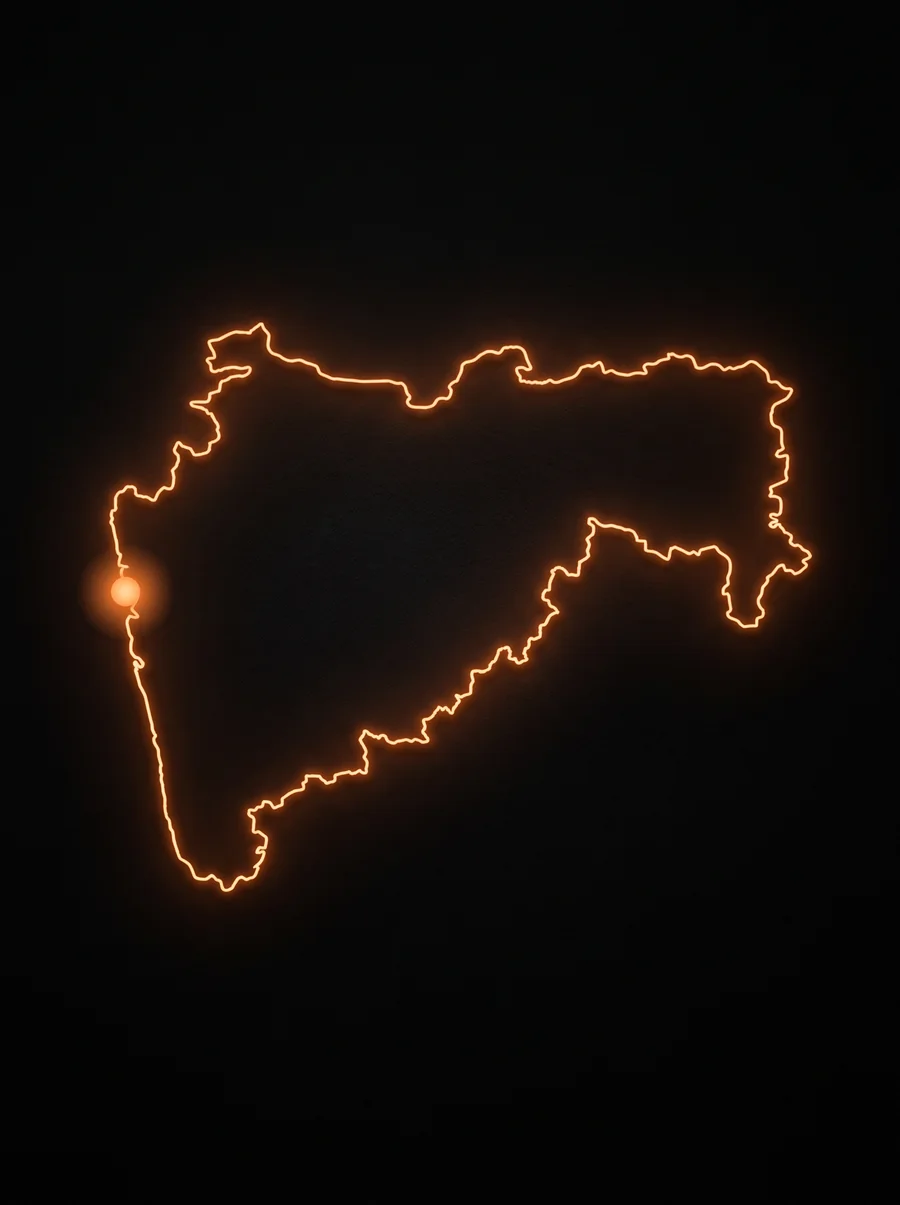
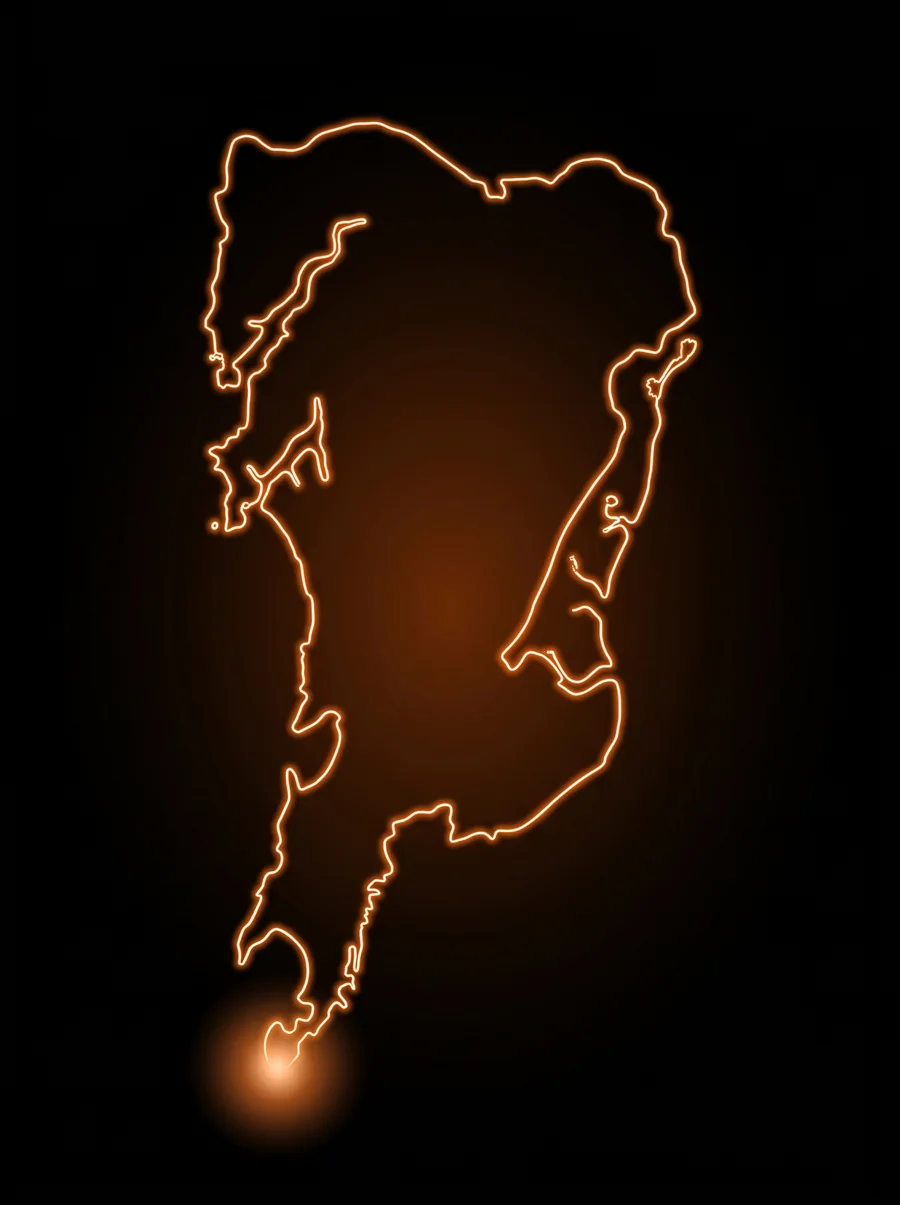
Ref feedback round: coral lens, header fix, trimmed video, ref-accurate how-it-works, Mumbai map, new footer
- Bouncing hero lens recolored to orange-pink coral (#FF6F57).
- Header: no more Services/Enquire overlap (tighter gaps, shrink guards,
  Services dropdown moves to lg+); removed the +11 badge on the About image.
- Removed the blue divider line above Our Services.
- Carousel video cut to first 3s + last 4s (7s total), re-interpolated to 60fps.
- How PROOFIT Works card rebuilt to match the reference: stacked outlines
  peeking above, inset rounded image, uppercase step title, cream pill list.
- Serving Mumbai now uses an actual Mumbai city outline map; testimonial
  gets a middle-aged Indian project-director portrait.
- Footer rebuilt per reference: grey Services label with six bold service
  links in two columns, Links column (About/Career/Contact Us/FAQs/
  Methodology), brand + contact block, social row.

Changed region(s): [[0.0622, 0.0921, 0.9333, 0.9519]]

diff --git a/components/Footer.tsx b/components/Footer.tsx
@@ -3,39 +3,58 @@ import Link from "next/link";
 import { site } from "@/lib/site";
 
 const serviceLinks = [
-  { href: "/services/water-inspection", label: "Water Inspection" },
-  { href: "/services/home-inspection", label: "Home Inspection" },
-  { href: "/services/proofit-care-plus", label: "Proofit Care+" },
+  { href: "/services/home-inspection", label: "New Flat Possession Inspection" },
+  { href: "/services/home-inspection", label: "Resale Property Inspection" },
+  { href: "/services/home-inspection", label: "Rental Move-In / Out Inspection" },
+  { href: "/services/water-inspection", label: "Thermal Inspection" },
+  { href: "/services/home-inspection", label: "Pre/Post Renovation Inspection" },
+  { href: "/services/home-inspection", label: "Builder Quality Audit" },
 ];
 
 const quickLinks = [
-  { href: "/about", label: "About Us" },
-  { href: "/process", label: "Our Process" },
-  { href: "/case-studies", label: "Case Studies" },
-  { href: "/blog", label: "Blog" },
-  { href: "/faqs", label: "FAQs" },
-  { href: "/careers", label: "Careers" },
+  { href: "/about", label: "About" },
+  { href: "/careers", label: "Career" },
   { href: "/contact", label: "Contact Us" },
+  { href: "/faqs", label: "FAQs" },
+  { href: "/process", label: "Methodology" },
+];
+
+const socials = [
+  { label: "Instagram", d: "M8 0C5.8 0 5.6 0 4.7.1 3.9.1 3.3.3 2.8.5c-.6.2-1 .5-1.5 1S.7 2.3.5 2.8C.3 3.3.1 3.9.1 4.7 0 5.6 0 5.8 0 8s0 2.4.1 3.3c0 .8.2 1.4.4 1.9.2.5.5 1 1 1.5s.9.7 1.4 1c.5.2 1 .3 1.9.4.9 0 1.1.1 3.3.1s2.4 0 3.3-.1c.8 0 1.4-.2 1.9-.4a4 4 0 0 0 2.4-2.4c.2-.5.3-1 .4-1.9V8c0-2.2 0-2.4-.1-3.3 0-.8-.2-1.4-.4-1.9a4 4 0 0 0-2.4-2.4C12.7.3 12.1.1 11.3.1 10.4 0 10.2 0 8 0zm0 1.4c2.1 0 2.4 0 3.2.1.8 0 1.2.2 1.5.3.4.1.7.3.9.6.3.3.5.6.6 1 .1.2.3.6.3 1.4.1.8.1 1.1.1 3.2s0 2.4-.1 3.2c0 .8-.2 1.2-.3 1.5-.1.4-.3.7-.6.9-.3.3-.6.5-.9.6-.3.1-.7.3-1.5.3-.8.1-1.1.1-3.2.1s-2.4 0-3.2-.1c-.8 0-1.2-.2-1.5-.3a2.6 2.6 0 0 1-1-.6 2.6 2.6 0 0 1-.5-.9c-.1-.3-.3-.7-.3-1.5C1.4 10.4 1.4 10.1 1.4 8s0-2.4.1-3.2c0-.8.2-1.2.3-1.5.1-.4.3-.7.6-.9.3-.3.5-.5.9-.6.3-.1.7-.3 1.5-.3.8-.1 1.1-.1 3.2-.1zM8 3.9a4.1 4.1 0 1 0 0 8.2 4.1 4.1 0 0 0 0-8.2zm0 6.8a2.7 2.7 0 1 1 0-5.4 2.7 2.7 0 0 1 0 5.4zm5.2-7a1 1 0 1 1-1.9 0 1 1 0 0 1 1.9 0z" },
+  { label: "LinkedIn", d: "M0 1.1C0 .5.5 0 1.2 0h13.6c.7 0 1.2.5 1.2 1.1v13.8c0 .6-.5 1.1-1.2 1.1H1.2C.5 16 0 15.5 0 14.9V1.1zm4.9 12.3V6.2H2.5v7.2h2.4zM3.7 5.2c.9 0 1.4-.5 1.4-1.2 0-.7-.5-1.2-1.3-1.2-.9 0-1.4.5-1.4 1.2 0 .7.5 1.2 1.3 1.2zm5 8.2V9.4c0-.2 0-.4.1-.6.2-.4.5-.9 1.2-.9.9 0 1.2.6 1.2 1.6v3.9h2.4V9.2c0-2.2-1.2-3.2-2.7-3.2-1.3 0-1.8.7-2.1 1.2v-1H6.3v7.2h2.4z" },
+  { label: "Facebook", d: "M16 8a8 8 0 1 0-9.2 7.9v-5.6h-2V8h2V6.3c0-2 1.2-3.1 3-3.1.9 0 1.8.1 1.8.1v2h-1c-1 0-1.3.6-1.3 1.2V8h2.2l-.4 2.3H9.2v5.6A8 8 0 0 0 16 8z" },
+  { label: "YouTube", d: "M15.7 4.2a2 2 0 0 0-1.4-1.4C13 2.4 8 2.4 8 2.4s-5 0-6.3.3A2 2 0 0 0 .3 4.2C0 5.4 0 8 0 8s0 2.6.3 3.8a2 2 0 0 0 1.4 1.4c1.2.4 6.3.4 6.3.4s5 0 6.3-.3a2 2 0 0 0 1.4-1.4C16 10.6 16 8 16 8s0-2.6-.3-3.8zM6.4 10.4V5.6L10.6 8l-4.2 2.4z" },
+  { label: "X", d: "M9.5 6.8 15.3 0h-1.4L8.9 5.9 4.9 0H.3l6.1 8.9L.3 16h1.4l5.3-6.2 4.3 6.2h4.6L9.5 6.8zm-1.9 2.2-.6-.9L2.2 1h2.1l4 5.7.6.9 5.1 7.4h-2.1L7.6 9z" },
 ];
 
 export default function Footer() {
   return (
-    <footer className="bg-ink text-white">
-      <div className="mx-auto grid max-w-7xl gap-10 px-4 py-14 sm:px-6 md:grid-cols-2 lg:grid-cols-4 lg:px-8">
+    <footer className="bg-[#121212] text-white">
+      <div className="mx-auto grid max-w-7xl gap-x-10 gap-y-12 px-4 py-14 sm:px-6 lg:grid-cols-[minmax(220px,300px)_1fr_minmax(220px,300px)] lg:px-8">
+        {/* Brand */}
         <div>
-          <Image src="/images/logo.svg" alt="Proofit" width={160} height={54} className="mb-4 rounded bg-white px-3 py-2" />
-          <p className="text-sm leading-relaxed text-white/70">
+          <Image src="/images/logo.svg" alt="Proofit" width={150} height={50} className="mb-4 rounded-md bg-white px-3 py-2" />
+          <p className="text-sm leading-relaxed text-white/60">
             Independent, evidence-backed home inspections in {site.serviceArea}. International standards, thermal
             imaging, and reports that settle arguments.
           </p>
+          <ul className="mt-5 space-y-1.5 text-sm text-white/70">
+            <li>
+              <a href={site.phoneHref} className="transition-colors hover:text-brand">{site.phone}</a>
+            </li>
+            <li>
+              <a href={`mailto:${site.email}`} className="transition-colors hover:text-brand">{site.email}</a>
+            </li>
+          </ul>
         </div>
 
+        {/* Services */}
         <div>
-          <h3 className="mb-4 font-display text-sm font-bold uppercase tracking-wider text-brand">Services</h3>
-          <ul className="space-y-2.5 text-sm">
+          <h3 className="mb-6 text-sm font-medium text-white/45">Services</h3>
+          <ul className="grid gap-x-10 gap-y-5 sm:grid-cols-2">
             {serviceLinks.map((l) => (
-              <li key={l.href}>
-                <Link href={l.href} className="text-white/80 transition-colors hover:text-brand">
+              <li key={l.label}>
+                <Link href={l.href} className="font-display font-semibold transition-colors hover:text-brand">
                   {l.label}
                 </Link>
               </li>
@@ -43,53 +62,26 @@ export default function Footer() {
           </ul>
         </div>
 
+        {/* Links */}
         <div>
-          <h3 className="mb-4 font-display text-sm font-bold uppercase tracking-wider text-brand">Company</h3>
-          <ul className="space-y-2.5 text-sm">
+          <h3 className="mb-6 text-sm font-medium text-white/45">Links</h3>
+          <ul className="grid grid-cols-2 gap-x-10 gap-y-5">
             {quickLinks.map((l) => (
-              <li key={l.href}>
-                <Link href={l.href} className="text-white/80 transition-colors hover:text-brand">
+              <li key={l.label}>
+                <Link href={l.href} className="font-display font-semibold transition-colors hover:text-brand">
                   {l.label}
                 </Link>
               </li>
             ))}
-          </ul>
-        </div>
-
-        <div>
-          <h3 className="mb-4 font-display text-sm font-bold uppercase tracking-wider text-brand">Reach Us</h3>
-          <ul className="space-y-3 text-sm text-white/80">
-            <li>
-              <a href={site.phoneHref} className="transition-colors hover:text-brand">
-                {site.phone}
-              </a>
-            </li>
-            <li>
-              <a href={`mailto:${site.email}`} className="transition-colors hover:text-brand">
-                {site.email}
-              </a>
-            </li>
-            <li>
-              <a href={site.whatsapp} target="_blank" rel="noopener" className="transition-colors hover:text-brand">
-                WhatsApp us
-              </a>
-            </li>
-            <li className="pt-1 text-white/60">{site.serviceArea}</li>
           </ul>
         </div>
       </div>
 
       <div className="border-t border-white/10">
-        <div className="mx-auto flex max-w-7xl flex-col items-center justify-between gap-4 px-4 py-5 text-xs text-white/50 sm:px-6 md:flex-row lg:px-8">
+        <div className="mx-auto flex max-w-7xl flex-col items-center justify-between gap-4 px-4 py-5 text-xs text-white/45 sm:px-6 md:flex-row lg:px-8">
           <p>© {new Date().getFullYear()} {site.legalName}. All rights reserved.</p>
           <div className="flex gap-2.5">
-            {[
-              { label: "Instagram", d: "M8 0C5.8 0 5.6 0 4.7.1 3.9.1 3.3.3 2.8.5c-.6.2-1 .5-1.5 1S.7 2.3.5 2.8C.3 3.3.1 3.9.1 4.7 0 5.6 0 5.8 0 8s0 2.4.1 3.3c0 .8.2 1.4.4 1.9.2.5.5 1 1 1.5s.9.7 1.4 1c.5.2 1 .3 1.9.4.9 0 1.1.1 3.3.1s2.4 0 3.3-.1c.8 0 1.4-.2 1.9-.4a4 4 0 0 0 2.4-2.4c.2-.5.3-1 .4-1.9V8c0-2.2 0-2.4-.1-3.3 0-.8-.2-1.4-.4-1.9a4 4 0 0 0-2.4-2.4C12.7.3 12.1.1 11.3.1 10.4 0 10.2 0 8 0zm0 1.4c2.1 0 2.4 0 3.2.1.8 0 1.2.2 1.5.3.4.1.7.3.9.6.3.3.5.6.6 1 .1.2.3.6.3 1.4.1.8.1 1.1.1 3.2s0 2.4-.1 3.2c0 .8-.2 1.2-.3 1.5-.1.4-.3.7-.6.9-.3.3-.6.5-.9.6-.3.1-.7.3-1.5.3-.8.1-1.1.1-3.2.1s-2.4 0-3.2-.1c-.8 0-1.2-.2-1.5-.3a2.6 2.6 0 0 1-1-.6 2.6 2.6 0 0 1-.5-.9c-.1-.3-.3-.7-.3-1.5C1.4 10.4 1.4 10.1 1.4 8s0-2.4.1-3.2c0-.8.2-1.2.3-1.5.1-.4.3-.7.6-.9.3-.3.5-.5.9-.6.3-.1.7-.3 1.5-.3.8-.1 1.1-.1 3.2-.1zM8 3.9a4.1 4.1 0 1 0 0 8.2 4.1 4.1 0 0 0 0-8.2zm0 6.8a2.7 2.7 0 1 1 0-5.4 2.7 2.7 0 0 1 0 5.4zm5.2-7a1 1 0 1 1-1.9 0 1 1 0 0 1 1.9 0z" },
-              { label: "LinkedIn", d: "M0 1.1C0 .5.5 0 1.2 0h13.6c.7 0 1.2.5 1.2 1.1v13.8c0 .6-.5 1.1-1.2 1.1H1.2C.5 16 0 15.5 0 14.9V1.1zm4.9 12.3V6.2H2.5v7.2h2.4zM3.7 5.2c.9 0 1.4-.5 1.4-1.2 0-.7-.5-1.2-1.3-1.2-.9 0-1.4.5-1.4 1.2 0 .7.5 1.2 1.3 1.2zm5 8.2V9.4c0-.2 0-.4.1-.6.2-.4.5-.9 1.2-.9.9 0 1.2.6 1.2 1.6v3.9h2.4V9.2c0-2.2-1.2-3.2-2.7-3.2-1.3 0-1.8.7-2.1 1.2v-1H6.3v7.2h2.4z" },
-              { label: "Facebook", d: "M16 8a8 8 0 1 0-9.2 7.9v-5.6h-2V8h2V6.3c0-2 1.2-3.1 3-3.1.9 0 1.8.1 1.8.1v2h-1c-1 0-1.3.6-1.3 1.2V8h2.2l-.4 2.3H9.2v5.6A8 8 0 0 0 16 8z" },
-              { label: "YouTube", d: "M15.7 4.2a2 2 0 0 0-1.4-1.4C13 2.4 8 2.4 8 2.4s-5 0-6.3.3A2 2 0 0 0 .3 4.2C0 5.4 0 8 0 8s0 2.6.3 3.8a2 2 0 0 0 1.4 1.4c1.2.4 6.3.4 6.3.4s5 0 6.3-.3a2 2 0 0 0 1.4-1.4C16 10.6 16 8 16 8s0-2.6-.3-3.8zM6.4 10.4V5.6L10.6 8l-4.2 2.4z" },
-              { label: "X", d: "M9.5 6.8 15.3 0h-1.4L8.9 5.9 4.9 0H.3l6.1 8.9L.3 16h1.4l5.3-6.2 4.3 6.2h4.6L9.5 6.8zm-1.9 2.2-.6-.9L2.2 1h2.1l4 5.7.6.9 5.1 7.4h-2.1L7.6 9z" },
-            ].map((s) => (
+            {socials.map((s) => (
               <a
                 key={s.label}
                 href="#"

diff --git a/components/HowItWorks.tsx b/components/HowItWorks.tsx
@@ -16,32 +16,36 @@ export default function HowItWorks({ steps }: { steps: Step[] }) {
 
   return (
     <div>
-      {/* stacked card look */}
-      <div className="relative">
-        <div className="absolute inset-x-3 -top-2 h-full rounded-2xl border border-brand/35 bg-white" aria-hidden />
-        <div className="absolute inset-x-6 -top-4 h-full rounded-2xl border border-brand/20 bg-white" aria-hidden />
-        <div className="relative grid overflow-hidden rounded-2xl border border-brand/60 bg-white md:grid-cols-[minmax(260px,380px)_1fr]">
-          <div className="relative aspect-[4/3] md:aspect-auto md:min-h-[360px]">
-            <Image
-              key={step.image}
-              src={step.image}
-              alt={step.title}
-              fill
-              sizes="(min-width: 768px) 380px, 100vw"
-              className="object-cover"
-            />
-          </div>
-          <div className="p-7 md:p-10">
-            <p className="font-display text-sm font-medium text-ink-soft/70">Step {String(index + 1).padStart(2, "0")}</p>
-            <h3 className="mt-1 font-display text-2xl font-semibold uppercase tracking-wide md:text-3xl">{step.title}</h3>
-            {step.intro && <p className="mt-2 text-ink-soft/75">{step.intro}</p>}
-            <ul className="mt-5 space-y-3">
-              {step.points.map((p) => (
-                <li key={p} className="rounded-xl bg-cream px-5 py-3.5 text-sm font-medium text-ink">
-                  {p}
-                </li>
-              ))}
-            </ul>
+      {/* stacked card deck — two outlines peeking above the live card */}
+      <div className="relative mt-8">
+        <div className="absolute -top-7 left-1/2 h-16 w-[calc(100%-6rem)] -translate-x-1/2 rounded-t-2xl border border-brand/30 bg-white" aria-hidden />
+        <div className="absolute -top-3.5 left-1/2 h-16 w-[calc(100%-3rem)] -translate-x-1/2 rounded-t-2xl border border-brand/50 bg-white" aria-hidden />
+        <div className="relative overflow-hidden rounded-2xl border border-brand bg-white p-5 md:p-7">
+          <div className="grid gap-8 md:grid-cols-[minmax(260px,420px)_1fr] md:gap-12">
+            <div className="relative aspect-[4/3] overflow-hidden rounded-xl md:aspect-[5/6] md:max-h-[440px]">
+              <Image
+                key={step.image}
+                src={step.image}
+                alt={step.title}
+                fill
+                sizes="(min-width: 768px) 420px, 100vw"
+                className="object-cover"
+              />
+            </div>
+            <div className="pb-2 md:py-4 md:pr-4">
+              <p className="text-ink-soft/80">Step {String(index + 1).padStart(2, "0")}</p>
+              <h3 className="mt-1 font-display text-2xl font-bold uppercase tracking-tight text-ink md:text-[1.75rem]">
+                {step.title}
+              </h3>
+              {step.intro && <p className="mt-2 text-ink-soft/80">{step.intro}</p>}
+              <ul className="mt-6 space-y-4">
+                {step.points.map((p) => (
+                  <li key={p} className="rounded-lg bg-cream px-5 py-4 text-[15px] font-semibold text-ink">
+                    {p}
+                  </li>
+                ))}
+              </ul>
+            </div>
           </div>
         </div>
       </div>

diff --git a/app/page.tsx b/app/page.tsx
@@ -242,9 +242,6 @@ export default function HomePage() {
                 className="object-cover"
               />
             </div>
-            <span className="absolute -right-5 top-1/2 flex h-14 w-14 items-center justify-center rounded-full bg-brand font-display text-lg font-semibold text-white shadow-lg" aria-label="More than 11 years of combined field experience">
-              +11
-            </span>
           </Reveal>
           <div>
             <Reveal delay={200} className="max-w-xl leading-relaxed text-ink-soft/85">
@@ -298,7 +295,7 @@ export default function HomePage() {
       </section>
 
       {/* --------------------------- SERVICES CAROUSEL ------------------------ */}
-      <section className="border-t-4 border-[#3b6fd4]">
+      <section>
         <ServicesCarousel slides={serviceSlides} />
       </section>
 
@@ -454,8 +451,14 @@ export default function HomePage() {
                   handovers, and stronger buyer confidence
                 </p>
                 <div className="mt-7 flex items-center gap-4 border-t border-white/15 pt-6">
-                  <span className="flex h-12 w-12 items-center justify-center rounded-full bg-brand/20 font-display font-semibold text-brand" aria-hidden>
-                    PD
+                  <span className="relative h-12 w-12 overflow-hidden rounded-full">
+                    <Image
+                      src="/images/director.webp"
+                      alt="Project Director of a residential development firm"
+                      fill
+                      sizes="48px"
+                      className="object-cover"
+                    />
                   </span>
                   <div>
                     <p className="font-display text-lg font-semibold">Project Director</p>

diff --git a/app/globals.css b/app/globals.css
@@ -109,11 +109,11 @@ h1, h2, h3, h4, .font-display {
 .thermal-lens {
   position: absolute;
   border-radius: 14px;
-  border: 2px solid rgba(255, 92, 168, 0.85);
+  border: 2px solid rgba(255, 111, 87, 0.9);
   box-shadow:
-    0 0 0 1px rgba(255, 92, 168, 0.35),
-    0 0 34px 6px rgba(255, 92, 168, 0.45),
-    inset 0 0 18px rgba(255, 92, 168, 0.2);
+    0 0 0 1px rgba(255, 111, 87, 0.35),
+    0 0 34px 6px rgba(255, 111, 87, 0.5),
+    inset 0 0 18px rgba(255, 111, 87, 0.22);
   overflow: hidden;
   pointer-events: none;
   will-change: transform;
@@ -123,8 +123,8 @@ h1, h2, h3, h4, .font-display {
   position: absolute;
   inset: 0;
   border-radius: 12px;
-  box-shadow: inset 0 0 0 1px rgba(255, 92, 168, 0.35);
-  background: rgba(255, 92, 168, 0.12);
+  box-shadow: inset 0 0 0 1px rgba(255, 130, 110, 0.35);
+  background: rgba(255, 111, 87, 0.12);
 }
 .thermal-lens .lens-img {
   position: absolute;
@@ -137,7 +137,7 @@ h1, h2, h3, h4, .font-display {
   position: absolute;
   width: 14px;
   height: 14px;
-  border-color: #ff5ca8;
+  border-color: #ff6f57;
   border-style: solid;
   border-width: 0;
 }

diff --git a/components/Header.tsx b/components/Header.tsx
@@ -53,8 +53,8 @@ export default function Header() {
           scrolled ? "bg-ink/95 shadow-[0_2px_24px_rgba(0,0,0,0.35)] backdrop-blur" : "bg-gradient-to-b from-ink/70 to-transparent"
         }`}
       >
-        <div className="mx-auto flex max-w-7xl items-center justify-between px-4 py-3 sm:px-6 lg:px-8">
-          <div className="flex items-center gap-8">
+        <div className="mx-auto flex max-w-7xl items-center justify-between gap-4 px-4 py-3 sm:px-6 lg:px-8">
+          <div className="flex min-w-0 items-center gap-4 md:gap-6 lg:gap-8">
             <Link href="/" aria-label="Proofit — home" className="shrink-0">
               <Image
                 src="/images/logo.svg"
@@ -62,14 +62,14 @@ export default function Header() {
                 width={128}
                 height={43}
                 priority
-                className="h-auto w-[110px] rounded-md bg-white/95 px-2 py-1 md:w-[128px]"
+                className="h-auto w-[96px] rounded-md bg-white/95 px-2 py-1 md:w-[120px]"
               />
             </Link>
 
             <button
               type="button"
               onClick={() => setOpen(true)}
-              className="flex cursor-pointer items-center gap-2 font-display text-sm font-semibold transition-colors hover:text-brand"
+              className="flex shrink-0 cursor-pointer items-center gap-2 font-display text-sm font-semibold transition-colors hover:text-brand"
               aria-label="Open menu"
               aria-expanded={open}
             >
@@ -80,7 +80,7 @@ export default function Header() {
             </button>
 
             {/* Services dropdown (desktop) */}
-            <div className="group relative hidden md:block">
+            <div className="group relative hidden lg:block">
               <Link
                 href="/services"
                 className="flex items-center gap-1.5 font-display text-sm font-semibold transition-colors hover:text-brand"
@@ -106,7 +106,7 @@ export default function Header() {
 
           <Link
             href="/contact"
-            className="group inline-flex h-10 items-center rounded-full bg-white text-ink shadow-[0_4px_18px_rgba(17,17,18,0.25)] transition-all hover:-translate-y-0.5"
+            className="group inline-flex h-10 shrink-0 items-center rounded-full bg-white text-ink shadow-[0_4px_18px_rgba(17,17,18,0.25)] transition-all hover:-translate-y-0.5"
           >
             <span className="whitespace-nowrap pl-4 font-display text-sm font-semibold">Enquire Now</span>
             <span className="mx-1 flex h-7 w-7 items-center justify-center rounded-full bg-brand text-white transition-transform duration-300 group-hover:translate-x-0.5">